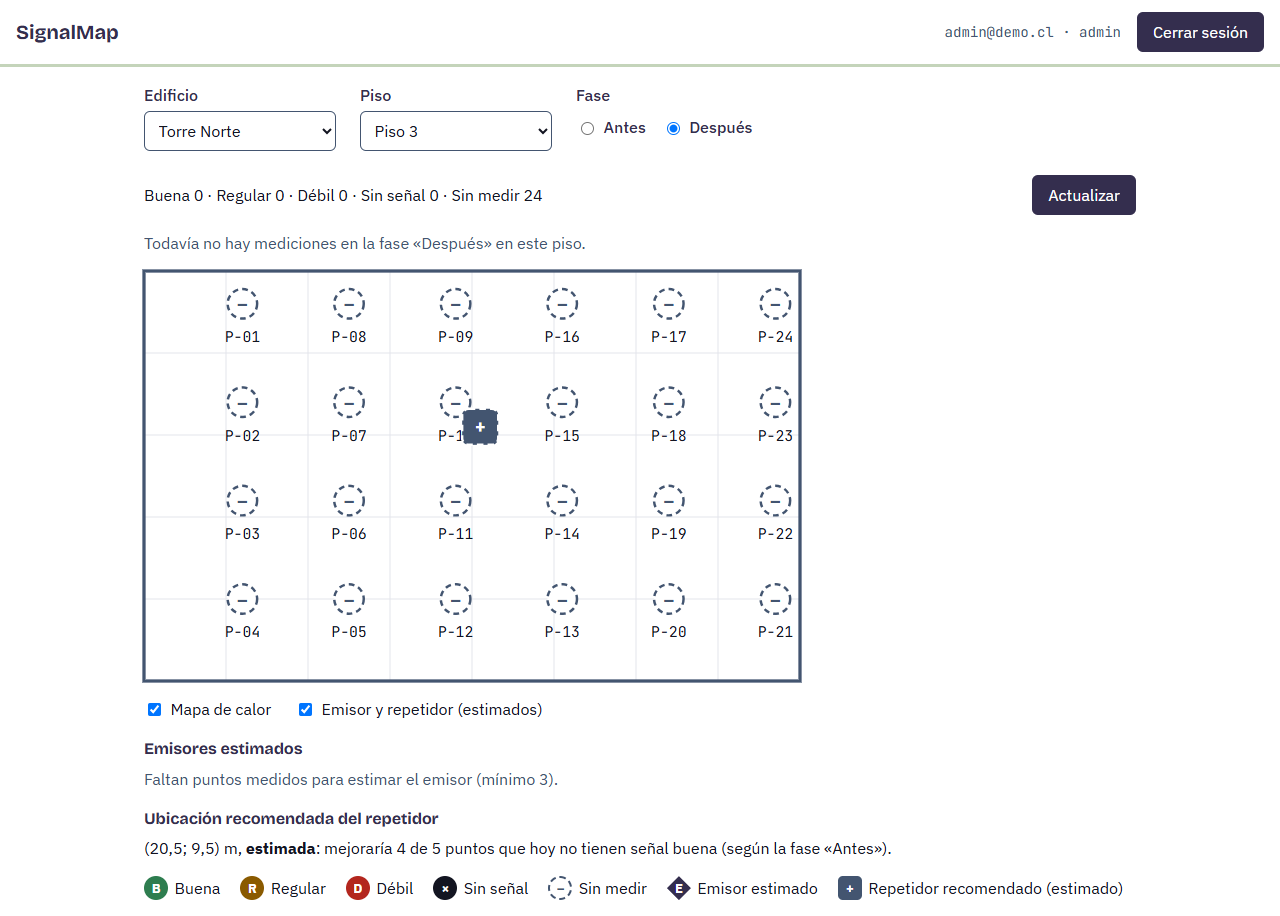
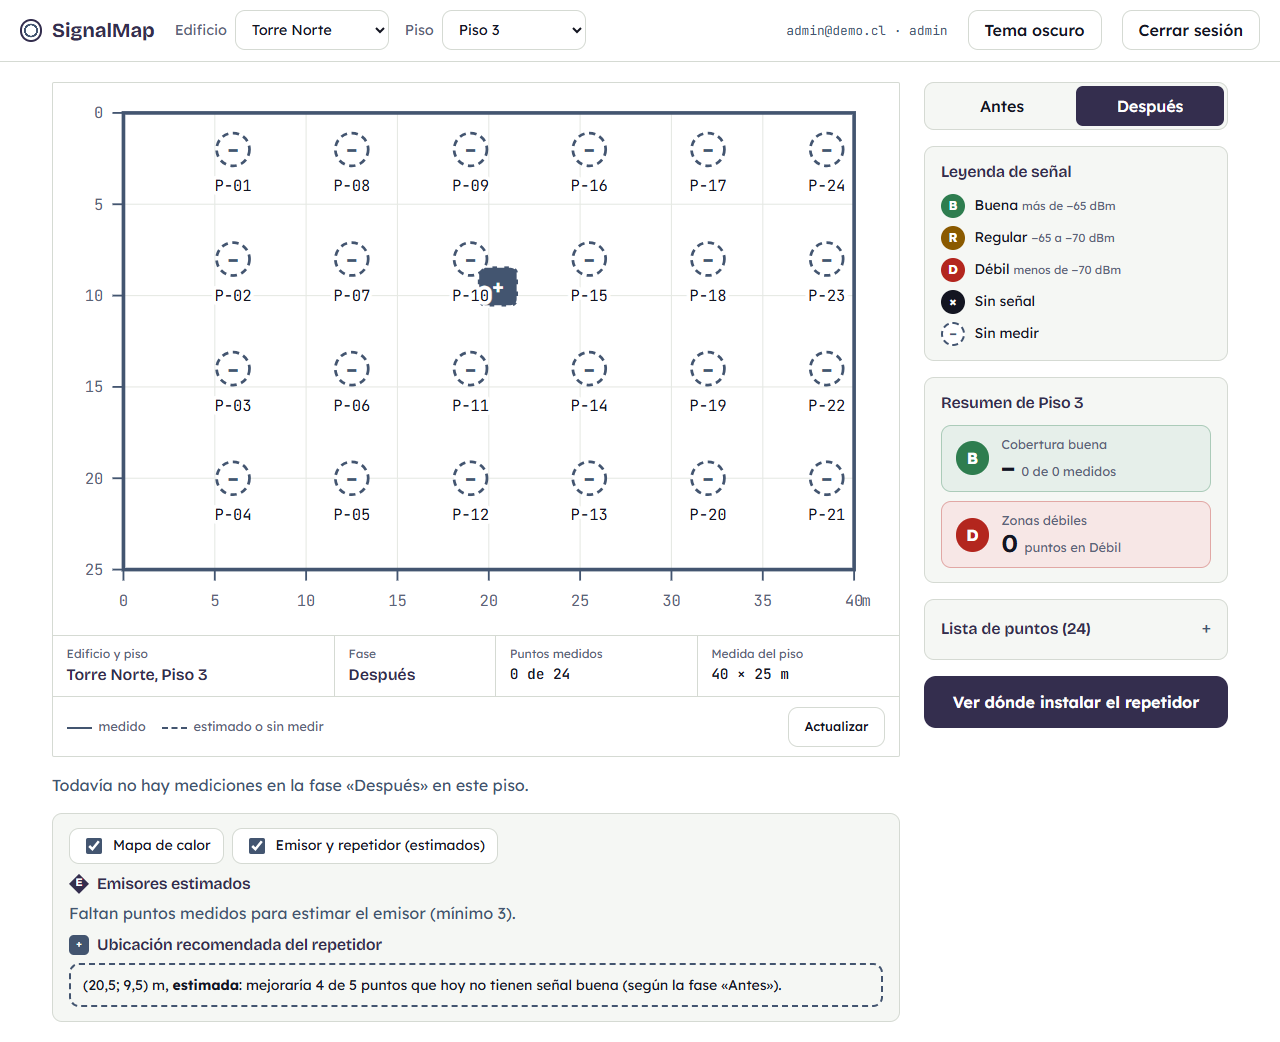
Manual: capturas nuevas (web y app, tema claro) y texto al día con el rediseño
- Las 7 capturas de docs/img se rehacen con el diseño nuevo: web (login, plano, detalle,
  fase «Después» vacía) y app (Medir, resultado, pendientes), todas en tema claro.
- El recorrido describe las pantallas actuales: selector en la cabecera, cajetín,
  tarjetas del resumen, ficha del punto, resultado en bloque de color y pendientes punteados.
- Falla nueva (5.2 y 7): en una WiFi con portal cautivo sin iniciar sesión, o con datos
  móviles encendidos, Android envía el tráfico por datos móviles y no llega a un servidor local.
- CLAUDE.md: registra la identidad de la app.

diff --git a/docs/manual.md b/docs/manual.md
@@ -90,7 +90,7 @@ Debe escribir `SignalMap API escuchando en el puerto 3000 (development, HTTP)`. 
 
 Con el teléfono conectado por USB y autorizado (`adb devices` lo debe mostrar como `device`):
 
-1. Descargar `app-debug.apk` de la sección [*Releases*](https://github.com/Signali/MapeoWifiSignal/releases) del repositorio.
+1. Descargar `app-debug.apk` del *Release* más reciente de la sección [*Releases*](https://github.com/Signali/MapeoWifiSignal/releases) del repositorio.
 2. Instalarlo:
    ```bash
    adb install -r app-debug.apk
@@ -142,16 +142,16 @@ Los datos son el edificio **Torre Norte**, con un único piso, **Piso 3** (40 m 
 
 El recorrido pasa por la web, la app y la web otra vez. Con el servicio iniciado (2.6), la app instalada y el túnel activo (2.8):
 
-1. **Mirar la web.** Abrir `http://localhost:3000/` e iniciar sesión con `admin@demo.cl`. Elegir el edificio «Torre Norte» y el piso «Piso 3» con la fase «Antes». El plano muestra los 24 puntos como un círculo punteado con un guion (la leyenda lo rotula «Sin medir»), y el resumen indica `Sin medir 24`.
+1. **Mirar la web.** Abrir `http://localhost:3000/` e iniciar sesión con `admin@demo.cl`. En la cabecera se elige el edificio «Torre Norte» y el piso «Piso 3»; a la derecha, la fase «Antes». El plano muestra los 24 puntos como un círculo punteado con un guion (la leyenda lo rotula «Sin medir»); bajo el plano, el cajetín dice «Puntos medidos 0 de 24» y la tarjeta «Cobertura buena» aparece vacía (–). La regla visual de toda la web y de la app es: **línea continua = medido; línea punteada = estimado, pendiente o sin medir**. El botón «Tema oscuro» (o «Tema claro») de la cabecera cambia el aspecto; sin elegir, sigue el tema del sistema.
 
    ![Inicio de sesión de la web](img/web-login.png)
 
-2. **Medir con la app.** Abrir SignalMap en el teléfono, iniciar sesión con `tecnico@demo.cl` (el campo «Servidor» ya dice `http://127.0.0.1:3000`), dejar elegida la fase «Antes» y leer el mensaje «Acerca el teléfono a una tira NFC.». Acercar el teléfono a la tira del `P-07`. La app resuelve el punto y habilita **«Medir WiFi»**; al tocarlo busca las redes («Buscando redes WiFi…») y envía la medición. La tarjeta de resultado dice «Medición guardada · P-07 · Piso 3 · Torre Norte · Antes», la categoría con su nivel (por ejemplo, «Regular», −69 dBm) y cuántas lecturas de la red de la organización se guardaron y cuántas de otras redes se descartaron.
+2. **Medir con la app.** Abrir SignalMap en el teléfono, iniciar sesión con `tecnico@demo.cl` (el campo «Servidor» ya dice `http://127.0.0.1:3000`), dejar elegida la fase «Antes» y ver la ficha punteada con el mensaje «Acerca el teléfono a una tira NFC.». Acercar el teléfono a la tira del `P-07`: la ficha pasa a mostrar el código grande (`P-07`) y el lugar («Piso 3, Torre Norte»), y se habilita **«Medir WiFi»**, el botón fijo en la parte baja de la pantalla. Al tocarlo busca las redes («Buscando redes WiFi…») y envía la medición. El resultado es un bloque del color de la categoría, con su letra dentro del círculo, el nombre (por ejemplo, «Regular») y el nivel (−69 dBm); debajo dice «Medición guardada, fase «Antes».» y cuántas lecturas de la red de la organización se guardaron y cuántas de otras redes se descartaron. «Medir de nuevo» repite la medición del mismo punto.
 
    ![App: pantalla Medir](img/app-medir.png)
    ![App: resultado de la medición](img/app-resultado.png)
 
-3. **Ver el resultado en la web.** Volver a la web y presionar **«Actualizar»**. El `P-07` aparece pintado como **Buena** (B), **Regular** (R) o **Débil** (D), según el nivel de señal medido (más fuerte que −65 dBm, entre −65 y −70 dBm, o más débil que −70 dBm). Al hacer clic en el punto se abre su detalle: categoría, nivel, fecha y redes captadas.
+3. **Ver el resultado en la web.** Volver a la web y presionar **«Actualizar»** (en el pie del plano). El `P-07` aparece pintado como **Buena** (B), **Regular** (R) o **Débil** (D), según el nivel de señal medido (más fuerte que −65 dBm, entre −65 y −70 dBm, o más débil que −70 dBm; la leyenda de la derecha lo recuerda). El cajetín pasa a «Puntos medidos 1 de 24» y las tarjetas del resumen se actualizan. Al hacer clic en el punto se abre su detalle bajo el plano: categoría, nivel, fecha y redes captadas. También se puede elegir un punto desde la «Lista de puntos» de la derecha, que está plegada.
 
    ![Web: plano en la fase «Antes» con el análisis](img/web-plano-antes.png)
    ![Web: detalle de un punto](img/web-detalle-punto.png)
@@ -160,7 +160,7 @@ El recorrido pasa por la web, la app y la web otra vez. Con el servicio iniciado
 
 5. **Medir más puntos.** Repetir el paso 2 con las tiras de `P-08` y `P-09` y volver a presionar «Actualizar». Con tres puntos medidos de la misma red ya se pueden estimar los emisores.
 
-6. **Análisis del piso** (debajo del plano, en la misma pantalla):
+6. **Análisis del piso** (debajo del plano, en la misma pantalla; el botón «Ver dónde instalar el repetidor» de la derecha lleva hasta este panel):
    - **Mapa de calor:** colorea el interior del piso interpolando entre los puntos medidos. Se oculta con la casilla «Mapa de calor».
    - **Emisores estimados:** la posición probable de cada punto de acceso de la red, calculada por trilateración. Aparece cuando al menos **3 puntos** captaron ese emisor; con menos, la web lo dice («Faltan puntos medidos para estimar el emisor (mínimo 3).»).
    - **Ubicación recomendada del repetidor:** un punto del plano donde un repetidor mejoraría la mayor cantidad de puntos que hoy no tienen señal buena. **Siempre se rotula «estimada»**: es un cálculo a partir de las mediciones, no una comprobación. Si todos los puntos medidos ya tienen señal buena, la web lo dice en lugar de recomendar una posición.
@@ -176,7 +176,7 @@ El recorrido pasa por la web, la app y la web otra vez. Con el servicio iniciado
 La app guarda en el teléfono las mediciones que no pudo enviar y las envía cuando vuelve la conexión. Con cable no se puede simular con el modo avión (ver la sección 8); lo que se hace es quitar el túnel:
 
 1. `adb reverse --remove tcp:3000`
-2. Medir un punto con la app. Aparece «Sin conexión: la medición quedó guardada en el teléfono y se enviará sola cuando vuelva la conexión.» y el contador «Pendientes: 1».
+2. Medir un punto con la app. Aparece «Sin conexión: la medición quedó guardada en el teléfono y se enviará sola cuando vuelva la conexión.» y una tarjeta de borde punteado con el contador «Pendientes: 1» y el botón «Enviar ahora».
 
    ![App: medición pendiente sin conexión](img/app-pendientes.png)
 
@@ -198,7 +198,7 @@ La cola solo se envía con la app abierta; no hay envío en segundo plano. Detal
 
 **Solución.**
 - **Con cable:** el túnel se perdió al reconectar el cable. Repetir `adb reverse tcp:3000 tcp:3000` y comprobar que el servicio sigue corriendo (`http://localhost:3000/health`). Si el `.env` tiene `TLS_*` completas, el servicio habla solo HTTPS y esta dirección no funciona (2.3).
-- **Por WiFi:** permitir el puerto en el Firewall de Windows y usar la IP del computador en el campo «Servidor» (sección 7).
+- **Por WiFi:** usar `https://<IP del computador>:3000` en el campo «Servidor» (sección 7) y revisar, en este orden: (1) el teléfono tiene que haber **iniciado sesión en el portal cautivo** de la red, si la tiene (el ícono de WiFi con «?» lo delata); (2) los **datos móviles deben estar apagados**: si la WiFi no tiene internet validado, Android manda el tráfico por datos móviles y no llega a un servidor local; (3) permitir el puerto en el Firewall de Windows si la red es «pública».
 
 La app muestra este mismo mensaje ante cualquier fallo de conexión, incluido un certificado rechazado; si falla por WiFi, probar de nuevo antes de buscar otra causa.
 
@@ -234,7 +234,8 @@ Qué hay que saber:
 
 - **La CA es de un solo equipo.** El APK del *Release* confía únicamente en la CA creada en Pc-Portatil; la clave privada (`certs/ca.key`) no está en el repositorio. En cualquier otro computador, al correr el script se crea una CA propia que reemplaza `signalmap_ca.crt`, y **hay que recompilar e instalar la app** para que la acepte (el archivo aparecerá modificado en git; no es necesario subirlo). Con cable, nada de esto hace falta.
 - **El certificado del servidor dura 30 días.** Si venció, se vuelve a correr el script con la misma IP y se reinicia el servicio. Si cambia la red, se corre con la IP nueva; la app no cambia.
-- **Aislamiento de clientes.** Muchas redes WiFi públicas o de salas (y los puntos de acceso de invitados) impiden que dos dispositivos se vean entre sí. Si el teléfono no llega al computador aunque todo esté bien configurado, esa es la causa más probable; con cable no ocurre.
+- **Portal cautivo y datos móviles.** Es lo que falló en la prueba real del 12/11 en la red de la universidad: el teléfono estaba conectado a la WiFi pero sin iniciar sesión en su portal, y Android usaba los datos móviles como red principal, así que la dirección local del computador era inalcanzable. Se resolvió iniciando sesión en el portal y apagando los datos móviles. Con eso, la medición llegó por HTTPS sin ningún cable. Conviene volver a activar los datos móviles al terminar.
+- **Aislamiento de clientes.** Muchas redes WiFi públicas o de salas (y los puntos de acceso de invitados) impiden que dos dispositivos se vean entre sí. Si el teléfono no llega al computador aunque el portal esté resuelto y los datos móviles apagados, esa es la causa más probable; con cable no ocurre.
 - **La web y el teléfono a la vez.** Con TLS activo, el navegador avisa de un certificado no confiable en `https://localhost:3000`. Para usar la web sin aviso y el teléfono por WiFi se pueden levantar dos instancias (ver `backend/README.md`).
 
 ## 8. Trampas del entorno

diff --git a/CLAUDE.md b/CLAUDE.md
@@ -102,7 +102,7 @@ Reglas:
   - **Base y CI:** las bases se **recrean** en cada PC al cambiar el esquema (`schema.sql` es el único script desde cero); el job `test` suma la web (typecheck y build) y el job `android` no es obligatorio.
 - **Reparto (2026-11-10):** Maximiliano hace la mayoría; Gabriel revisa y acuerda el contrato, el plan y cada PR, y además tiene 4 tareas propias con commits suyos (banco de preguntas del Hito 2, ensayo en equipo limpio, datos personales del documento y revisión cruzada). Cada uno sube su parte con su cuenta (A5 y factor individual).
 - **PostGIS (revisado 2026-11-11):** con el mapa de calor y la recomendación sí hay consultas espaciales (puntos dentro de un radio de una celda, cobertura de cada posición candidata). Decisión: se implementan primero en TypeScript, detrás de un repositorio que permita cambiarlas por consultas PostGIS (`ST_DWithin`, `ST_Distance`); se instala PostGIS solo con el núcleo cerrado y verde (migración: columna `geometry(Point, 0)` generada desde `x`/`y`, imagen `postgis/postgis:17` en el CI, recrear bases). Si no se llega, queda como «no hizo falta». Nunca como adorno.
-- **Rediseño de la web (2026-11-12):** misma paleta «aurora» y títulos en Bricolage Grotesque, **texto en Lexend** (autoalojada; la web ya no usa IBM Plex Sans, que sigue en el documento técnico y la presentación), tema claro y oscuro (sigue al sistema, con botón), plano como «hoja de levantamiento» con ejes en metros y cajetín, y regla visual de línea continua = medido, punteada = estimado o sin medir. Del prototipo de Figma del Hito 1 se retomó la leyenda con umbrales, el resumen del piso, los chips de puntos y el botón del repetidor; **no** las pestañas ni las salas (sin modelo de datos). Mapa de calor **en bloques** (no difuminado). Los umbrales de la leyenda son texto fijo en `frontend/src/categories.ts`, a mano igual que `signal-category.ts`. La app Android adopta la misma identidad en un PR aparte.
+- **Rediseño de la web (2026-11-12):** misma paleta «aurora» y títulos en Bricolage Grotesque, **texto en Lexend** (autoalojada; la web ya no usa IBM Plex Sans, que sigue en el documento técnico y la presentación), tema claro y oscuro (sigue al sistema, con botón), plano como «hoja de levantamiento» con ejes en metros y cajetín, y regla visual de línea continua = medido, punteada = estimado o sin medir. Del prototipo de Figma del Hito 1 se retomó la leyenda con umbrales, el resumen del piso, los chips de puntos y el botón del repetidor; **no** las pestañas ni las salas (sin modelo de datos). Mapa de calor **en bloques** (no difuminado). Los umbrales de la leyenda son texto fijo en `frontend/src/categories.ts`, a mano igual que `signal-category.ts`. La app Android adoptó la misma identidad (PR #43): tema claro y oscuro según el sistema y sin color dinámico, con Lexend, Bricolage Grotesque y JetBrains Mono incluidas en `res/font` (TTF variables, licencia OFL), la ficha del punto, el resultado en bloque de color y los pendientes con borde punteado. Prueba real el 2026-11-12 en el SM-A166M, con cable y por WiFi con HTTPS: en la WiFi del campus hizo falta iniciar sesión en el portal cautivo y apagar los datos móviles (ver manual, 5.2 y 7).
 - Plan con fechas, recortes y riesgos: vault, `SignalMap\Hito 3\Plan del Hito 3 · 2026-11-10.md`.
 - **Demo sin repetidor real (2026-11-11):** no hay repetidor ni tiempo de conseguirlo. La demo y el video muestran solo la fase «antes» más la ubicación recomendada del repetidor, rotulada «estimada». La fase «después» existe en base, contrato y web, pero no se simula ni se comprobó con un repetidor real; se declara como limitación.
 - Detalle y supuestos pendientes: vault, `SignalMap\Propuesta Back-End\Propuesta Back-End.md`.
